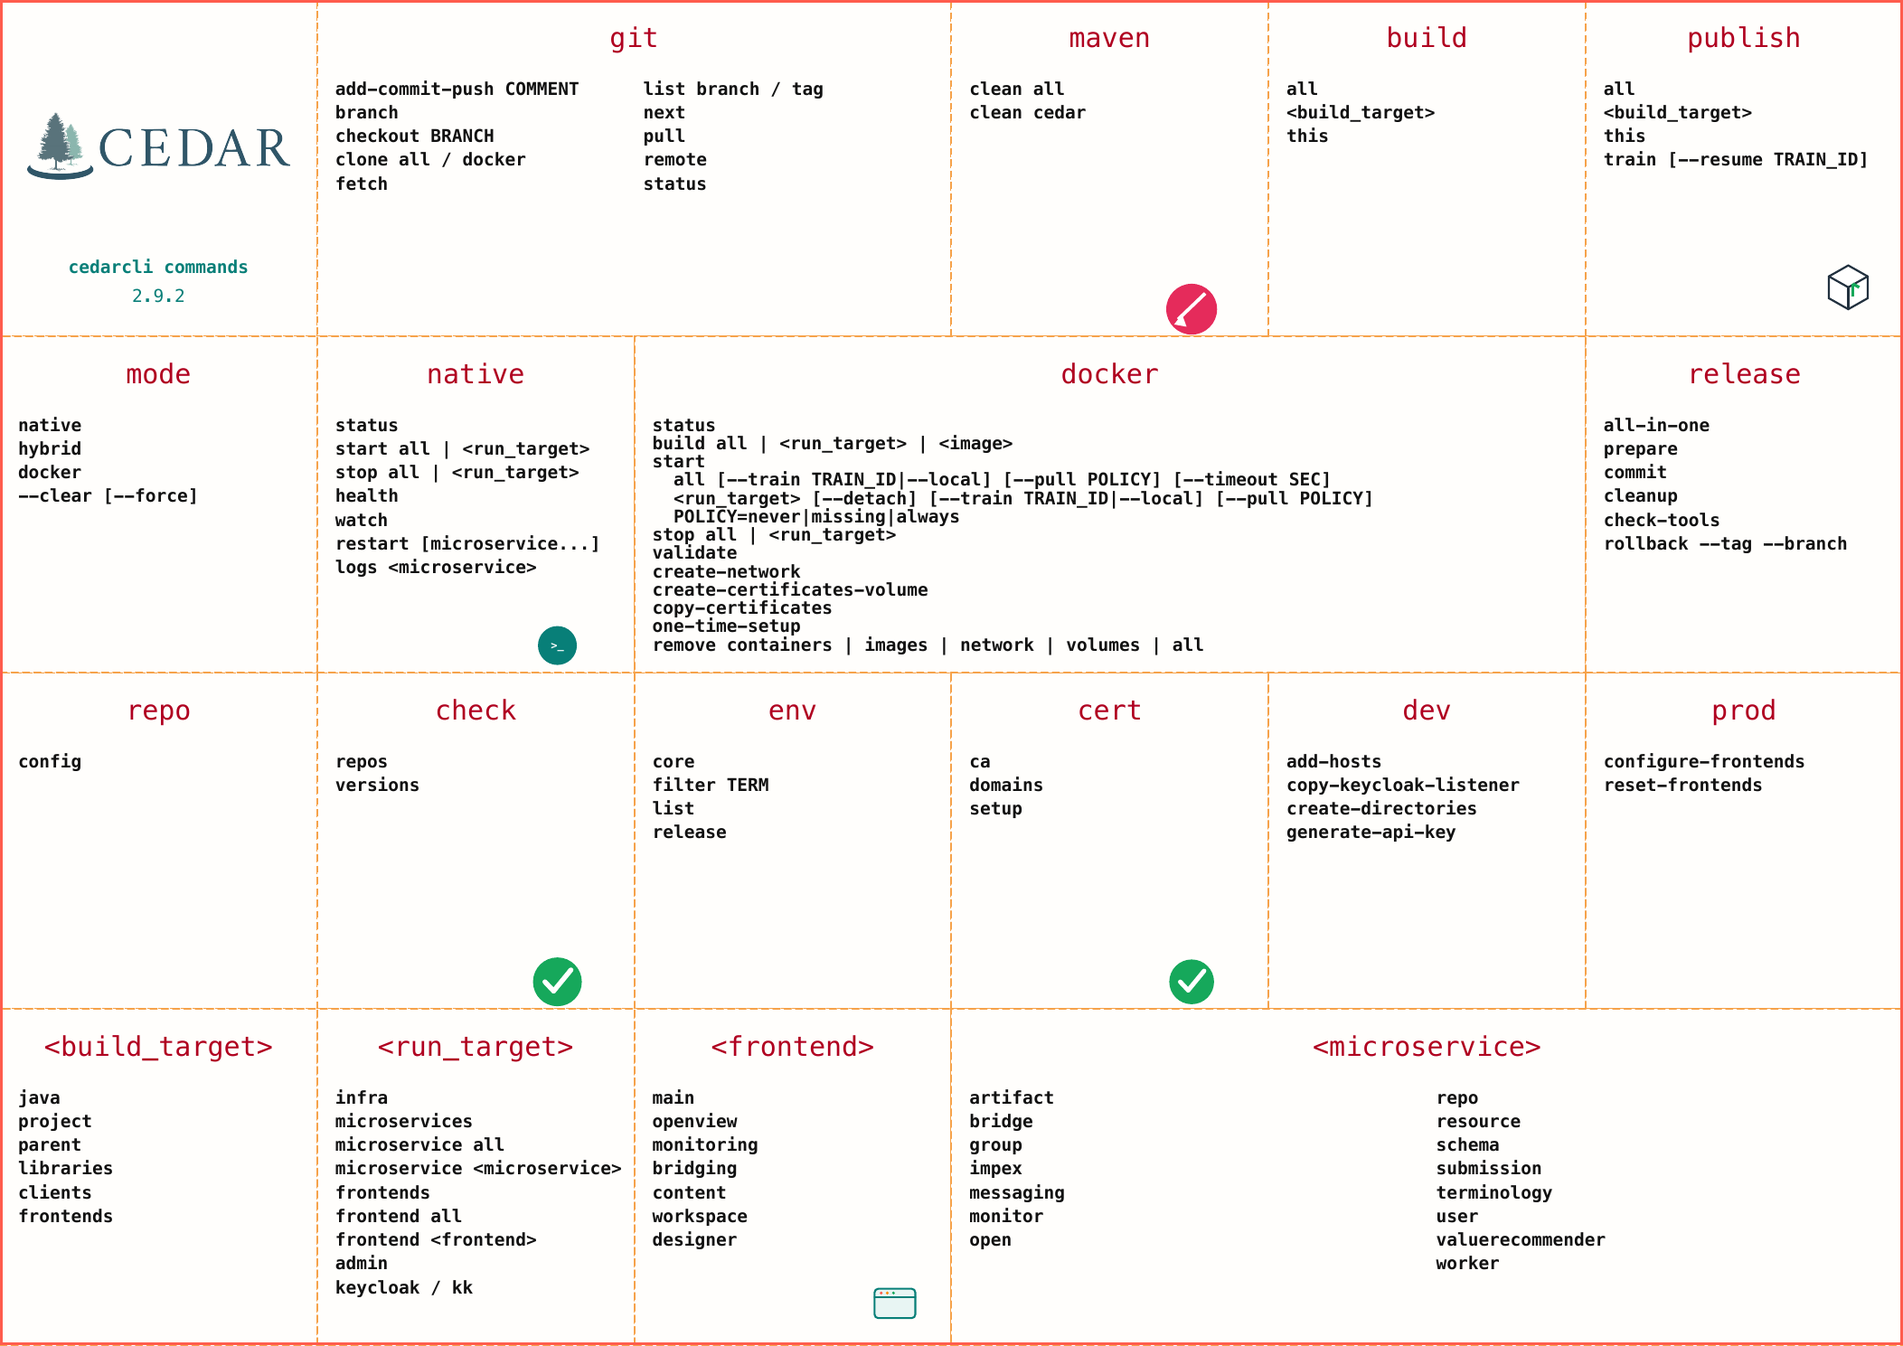
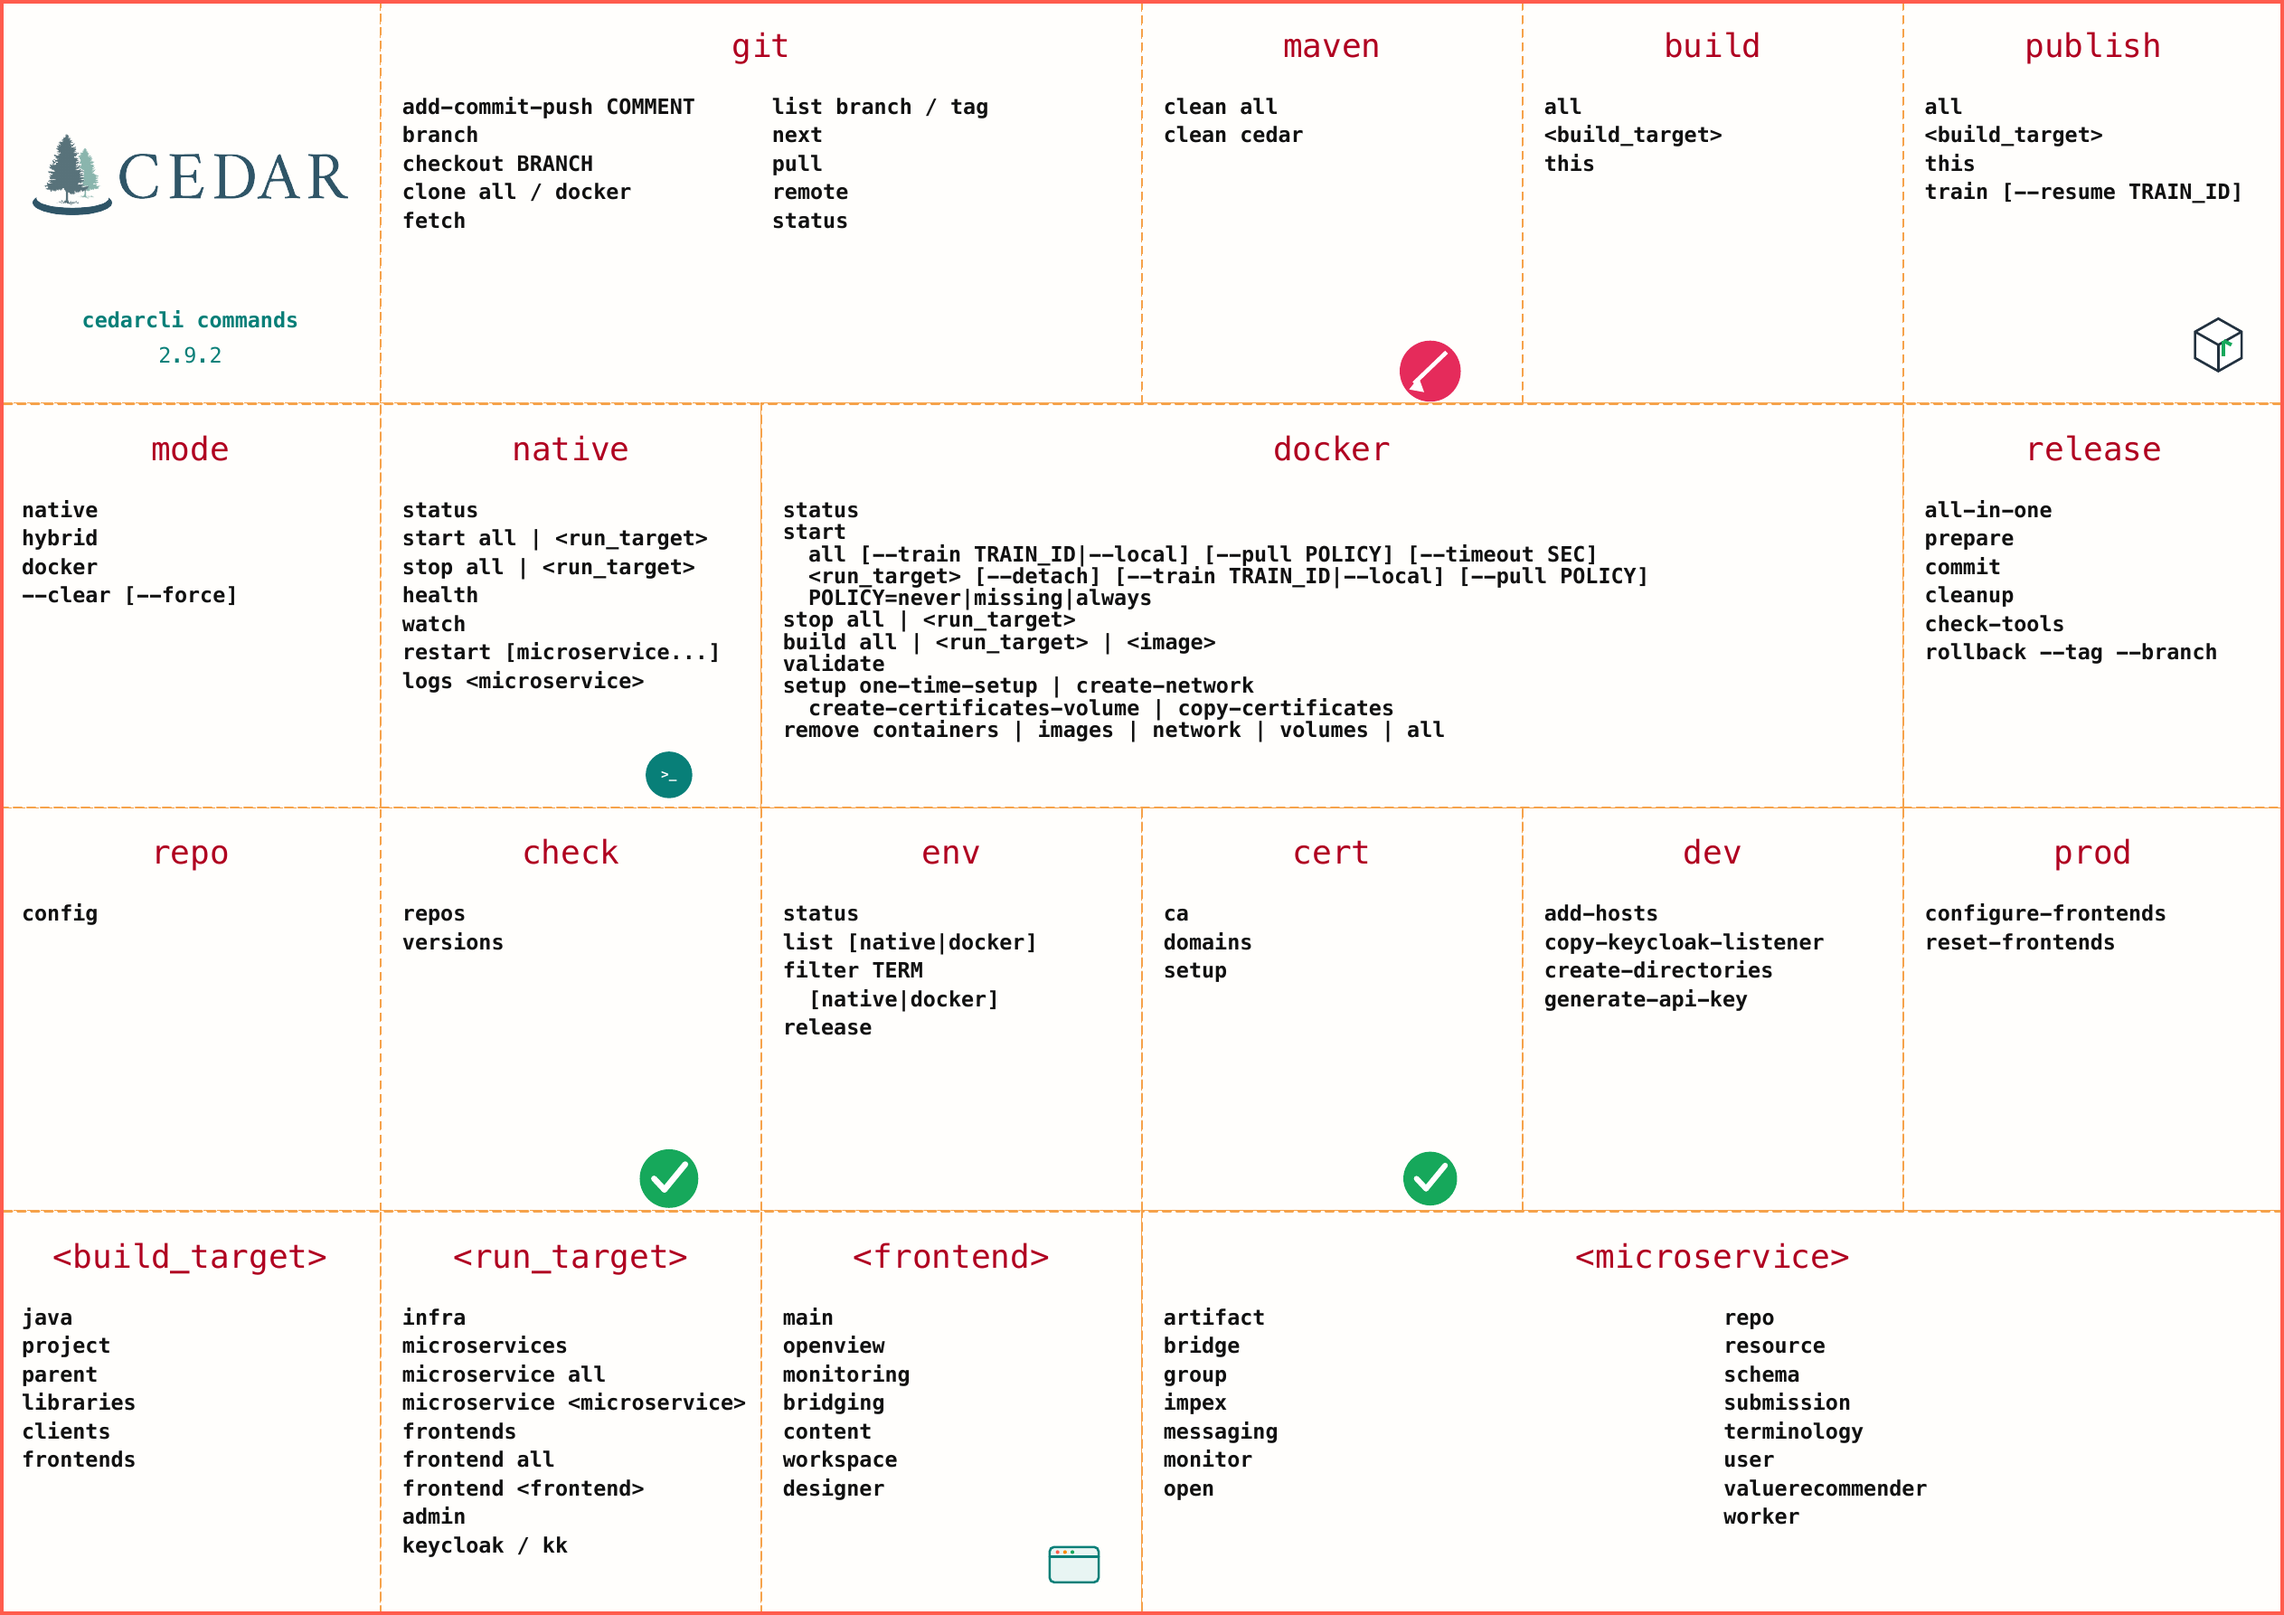
Update CLI environment and Docker setup documentation

diff --git a/tools/generate_cedarcli_cheatsheet.py b/tools/generate_cedarcli_cheatsheet.py
@@ -232,17 +232,15 @@ def docker_panel(c: canvas.Canvas) -> None:
     body_top = y + CELL_HEIGHT - 42
     draw_lines(c, [
         "status",
-        "build all | <run_target> | <image>",
         "start",
         "  all [--train TRAIN_ID|--local] [--pull POLICY] [--timeout SEC]",
         ("  <run_target> [--detach] [--train TRAIN_ID|--local] [--pull POLICY]", ORANGE),
         ("  POLICY=never|missing|always", TEAL),
         "stop all | <run_target>",
+        "build all | <run_target> | <image>",
         ("validate", ORANGE),
-        "create-network",
-        "create-certificates-volume",
-        "copy-certificates",
-        ("one-time-setup", ORANGE),
+        "setup one-time-setup | create-network",
+        "  create-certificates-volume | copy-certificates",
         ("remove containers | images | network | volumes | all", OUTLINE),
     ], x + 8, body_top, leading=8.1)
 
@@ -284,7 +282,10 @@ def draw_sheet(c: canvas.Canvas, cli_version: str) -> None:
     panel(c, 0, 2, "repo", [("config", ORANGE)])
     panel(c, 1, 2, "check", [("repos", ORANGE), ("versions", ORANGE)],
           icon=check_icon, icon_scale=0.24)
-    panel(c, 2, 2, "env", ["core", "filter TERM", "list", "release"])
+    panel(c, 2, 2, "env", [
+        ("status", ORANGE), "list [native|docker]",
+        "filter TERM", "  [native|docker]", "release",
+    ])
     panel(c, 3, 2, "cert", ["ca", "domains", ("setup", ORANGE)],
           icon=check_icon, icon_scale=0.22)
     panel(c, 4, 2, "dev", [

diff --git a/docs/install-developer/cedar-cli-and-scripts.md b/docs/install-developer/cedar-cli-and-scripts.md
@@ -1,7 +1,7 @@
 # CEDAR CLI and Scripts
 
 ## Overview
-The CEDAR system is relatively complex: it uses 15 microservices, 6 frontends and 7 infrastructure services.
+The CEDAR system is relatively complex: it uses 15 microservices, seven frontends and seven infrastructure services.
 
 Orchestrating the startup, shutdown, rebuild of this system would be a heavy burden if only shell commands were to be used.
 
@@ -9,11 +9,15 @@ Orchestrating the startup, shutdown, rebuild of this system would be a heavy bur
 In order to make the developer's life easier, we created a command line interface that centralizes all the commands. This tool will help the user to easily handle the tasks that will be performed during the development and deployment.
 
 ### Environment variables
-In order to make the system relatively easily configurable, we extracted the configuration data into environment variables.
-These environment variables should be always available in the shell of the user whop develops/maintains the system. 
 
-Currently, there are approximately 180 variables maintained.
-These are either read directly from the environment (this is the rare case), or are embedded through automatic interpolation into different configuration files (this is the typical scenario).
+CEDAR profiles express installation configuration as environment variables. After you select
+`native`, `hybrid`, or `docker` with `cedarcli mode`, the CLI loads the appropriate profile for each
+command. A bare shell therefore needs `CEDAR_HOME` and the `cedarcli` alias, but it does not need to
+export the complete CEDAR profile itself.
+
+There are many CEDAR variables because they configure the infrastructure, microservices, frontend
+routes, build system, and releases. Use the safe `cedarcli env` commands below to inspect the
+effective values; credential values are redacted.
 
 ## cedar-cli
 
@@ -192,47 +196,42 @@ Please make sure, that during this installation, and later during development yo
 
 If you are using a terminal with multiple profile support (e.g. iTerm), make sure the active profile has the `CEDAR` environment set.
 
-## env list
+## Inspect the Effective Environment
 
-`cedarcli env list` stands for CEDAR Environment Variables List. You can check the values of all the environment variables that begin with the prefix `CEDAR_` in your current environment.
+CEDAR profiles contain the addresses, ports, credentials, and other settings used by the running
+topology. `cedarcli env` inspects the profile selected by `cedarcli mode`; it does not merely repeat
+whatever happened to be exported in the calling shell.
 
-### Running `env list`
-Execute this: 
+Start with a concise summary:
+
+```sh
+cedarcli env status
+```
+
+This shows the selected mode, profile path, host and network, plus Docker image information when
+applicable. It never prints credentials.
+
+List or search the effective CEDAR variables with:
+
 ```sh
 cedarcli env list
-```
-
-You should see an output resembling this:
-
-```
-                                                            CEDAR environment variables
-┏━━━━━━━━━━━━━━━━━━━━━━━━━━━━━━━━━━━━━━━━━━━━━━━┳━━━━━━━━━━━━━━━━━━━━━━━━━━━━━━━━━━━━━━━━━━━━━━━━━━━━━━━━━━━━━━━━━━━━━━━━━━━━━━━━━━━━━━━━━━━━━━━━━┓
-┃ Name                                          ┃ Value                                                                                           ┃
-┡━━━━━━━━━━━━━━━━━━━━━━━━━━━━━━━━━━━━━━━━━━━━━━━╇━━━━━━━━━━━━━━━━━━━━━━━━━━━━━━━━━━━━━━━━━━━━━━━━━━━━━━━━━━━━━━━━━━━━━━━━━━━━━━━━━━━━━━━━━━━━━━━━━┩
-│ CEDAR_ADMIN_USER_API_KEY                      │ 0000111122223333444455556666777788889999aaaabbbbccccddddeeeeffff                                │
-...
-│ CEDAR_WORKER_STOP_PORT                        │ 9211                                                                                            │
-└───────────────────────────────────────────────┴─────────────────────────────────────────────────────────────────────────────────────────────────┘
-                                                                   182 variables
-```
-
-### Debugging `env list`
-If your output looks different, than the one presented above, please go back, and start from beginning.
-You will need your environment set up correctly before proceeding.
-
-### Other `env` commands
-Executing 
-```sh
-cedarcli env
-```
-will present you with the other subcommands related to environment variables. Some examples:
-```sh
-cedarcli env
-cedarcli env list
-cedarcli env core
-cedarcli env release
 cedarcli env filter WORKER
 ```
+
+Password, secret, token, private-key, credential, and API-key values are always displayed as
+`<redacted>`. In hybrid mode, native frontend processes and the Docker backend use separate
+profiles, so select the surface explicitly:
+
+```sh
+cedarcli env list native
+cedarcli env list docker
+cedarcli env filter HOST native
+cedarcli env filter HOST docker
+```
+
+The release-specific view remains available as `cedarcli env release`. It reports whether the
+release and next-development version inputs are present. The former `env core` command has been
+removed; `env status` is its mode-aware replacement.
 
 ## Check deployment status
 

diff --git a/docs/install-docker/cedarcli-cheat-sheet.md b/docs/install-docker/cedarcli-cheat-sheet.md
@@ -17,17 +17,24 @@ project is running, stop it separately with `cedarcli docker stop admin`.
 If Docker has already been deliberately shut down and therefore cannot confirm teardown, use
 `cedarcli mode --clear --force` to discard the inactive deployment record.
 
+Use `cedarcli env status` to see the selected mode and effective profile. `env list` and `env filter`
+read that effective profile and redact credentials. In hybrid mode, append `native` or `docker` to
+select the environment being inspected.
+
 ## Normal Docker Workflow
 
 ```bash
 cedarcli docker validate
-cedarcli docker one-time-setup
+cedarcli docker setup one-time-setup
 cedarcli docker start all --pull missing --timeout 1800
 cedarcli docker status
 cedarcli docker stop all
 ```
 
 `one-time-setup` recreates the private Docker network, so run it only while the stack is stopped.
+The three lower-level setup commands are available separately as
+`cedarcli docker setup create-network`, `create-certificates-volume`, and `copy-certificates` when
+repairing one resource. In normal use, run the aggregate command above.
 Ordinary stop and start operations preserve the named volumes that hold CEDAR data.
 Keep Docker running until stop completes. When the daemon is unavailable, aggregate stop reports one
 error without attempting each stack. `mode --clear --force` clears CLI state only; it does not stop

diff --git a/docs/install-developer/configuration.md b/docs/install-developer/configuration.md
@@ -56,19 +56,22 @@ Since there are numerous such subdomains, we created a script which will add the
 
 ### Check the `CEDAR_HOST` variable
 
+Select the native topology once, then inspect the effective native profile:
+
 ```sh
-cedarcli env filter CEDAR_HOST
+cedarcli mode native
+cedarcli env filter CEDAR_HOST native
 ```
 
 The output should be:
 ```
-    CEDAR environment variables
+    CEDAR native environment variables matching CEDAR_HOST
 ┏━━━━━━━━━━━━┳━━━━━━━━━━━━━━━━━━━━━┓
 ┃ Name       ┃ Value               ┃
 ┡━━━━━━━━━━━━╇━━━━━━━━━━━━━━━━━━━━━┩
 │ CEDAR_HOST │ metadatacenter.orgx │
 └────────────┴─────────────────────┘
-            1 variables
+       1 variables; sensitive values are redacted
 ```
 
 If this is not what you see, please go back to the previous steps, and fix this. 

diff --git a/docs/install-docker/local-certificates.md b/docs/install-docker/local-certificates.md
@@ -41,7 +41,7 @@ Run this only while the CEDAR Docker stack is stopped. It recreates the external
 creates the `cedar_cert` and `cedar_ca` volumes, and copies the generated certificates into them:
 
 ```bash
-cedarcli docker one-time-setup
+cedarcli docker setup one-time-setup
 ```
 
 Verify the resulting resources:
